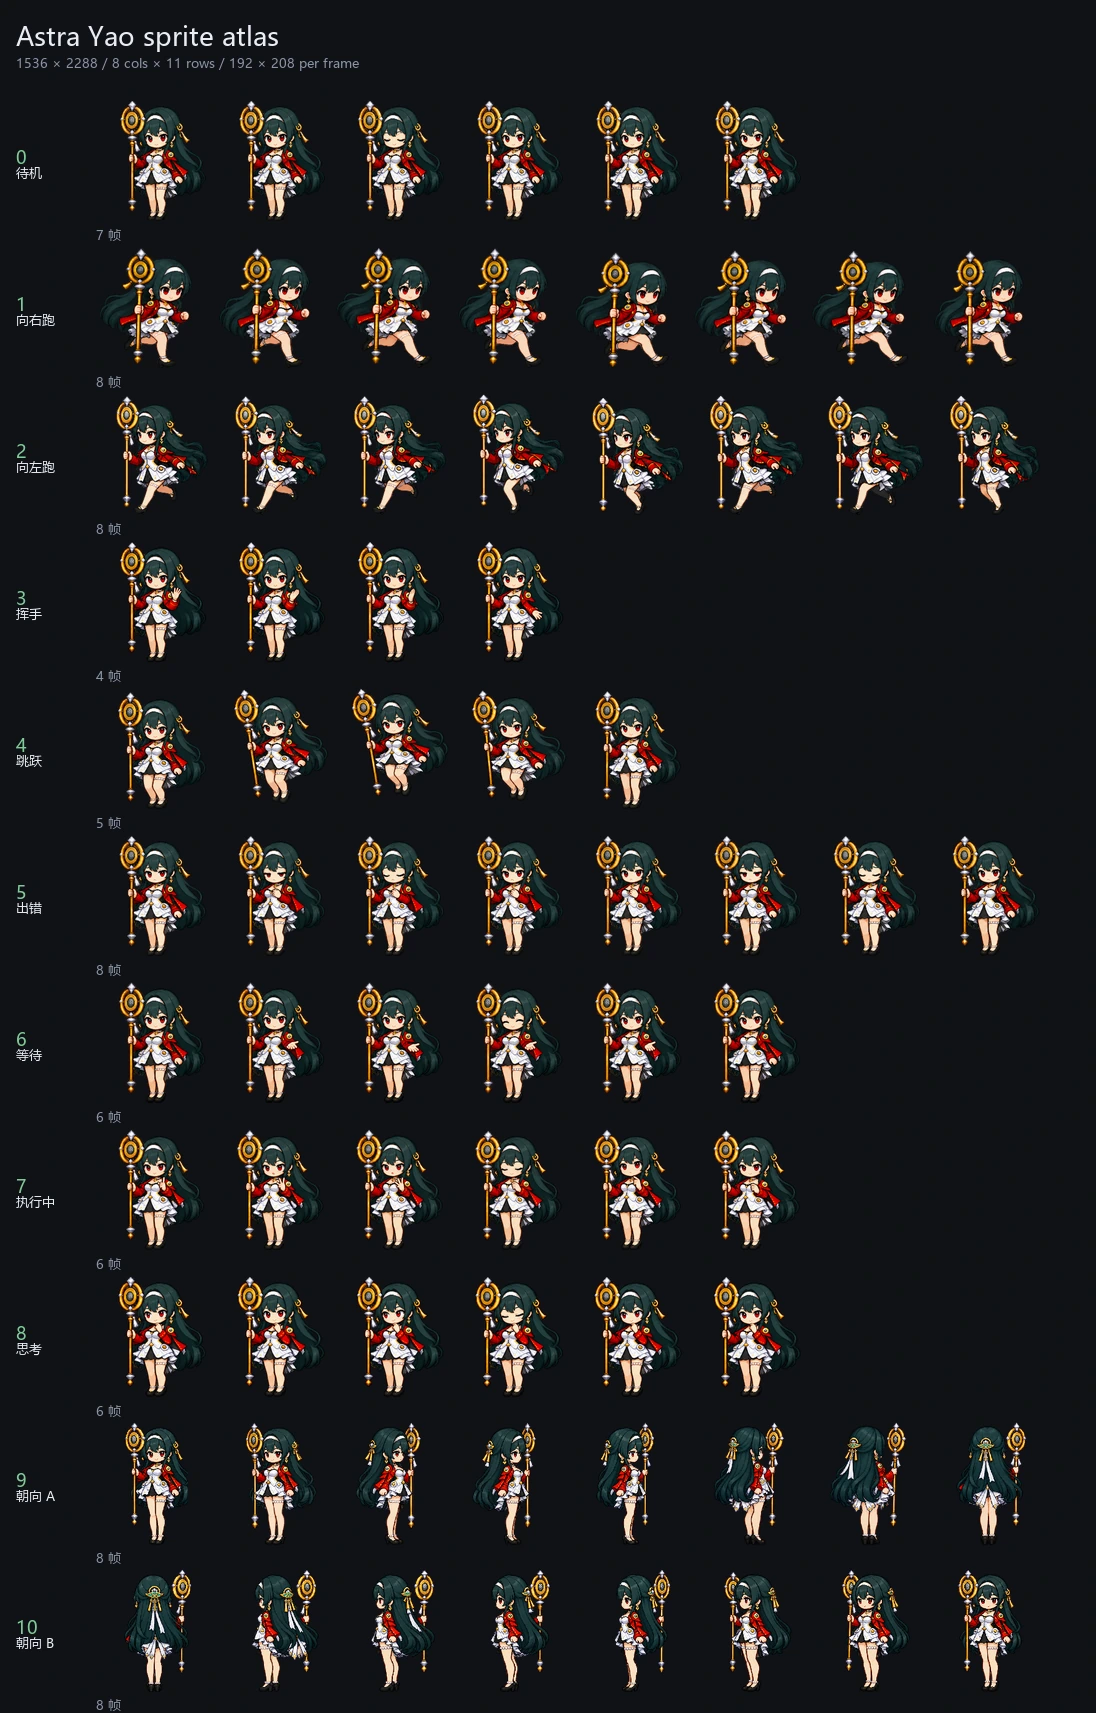
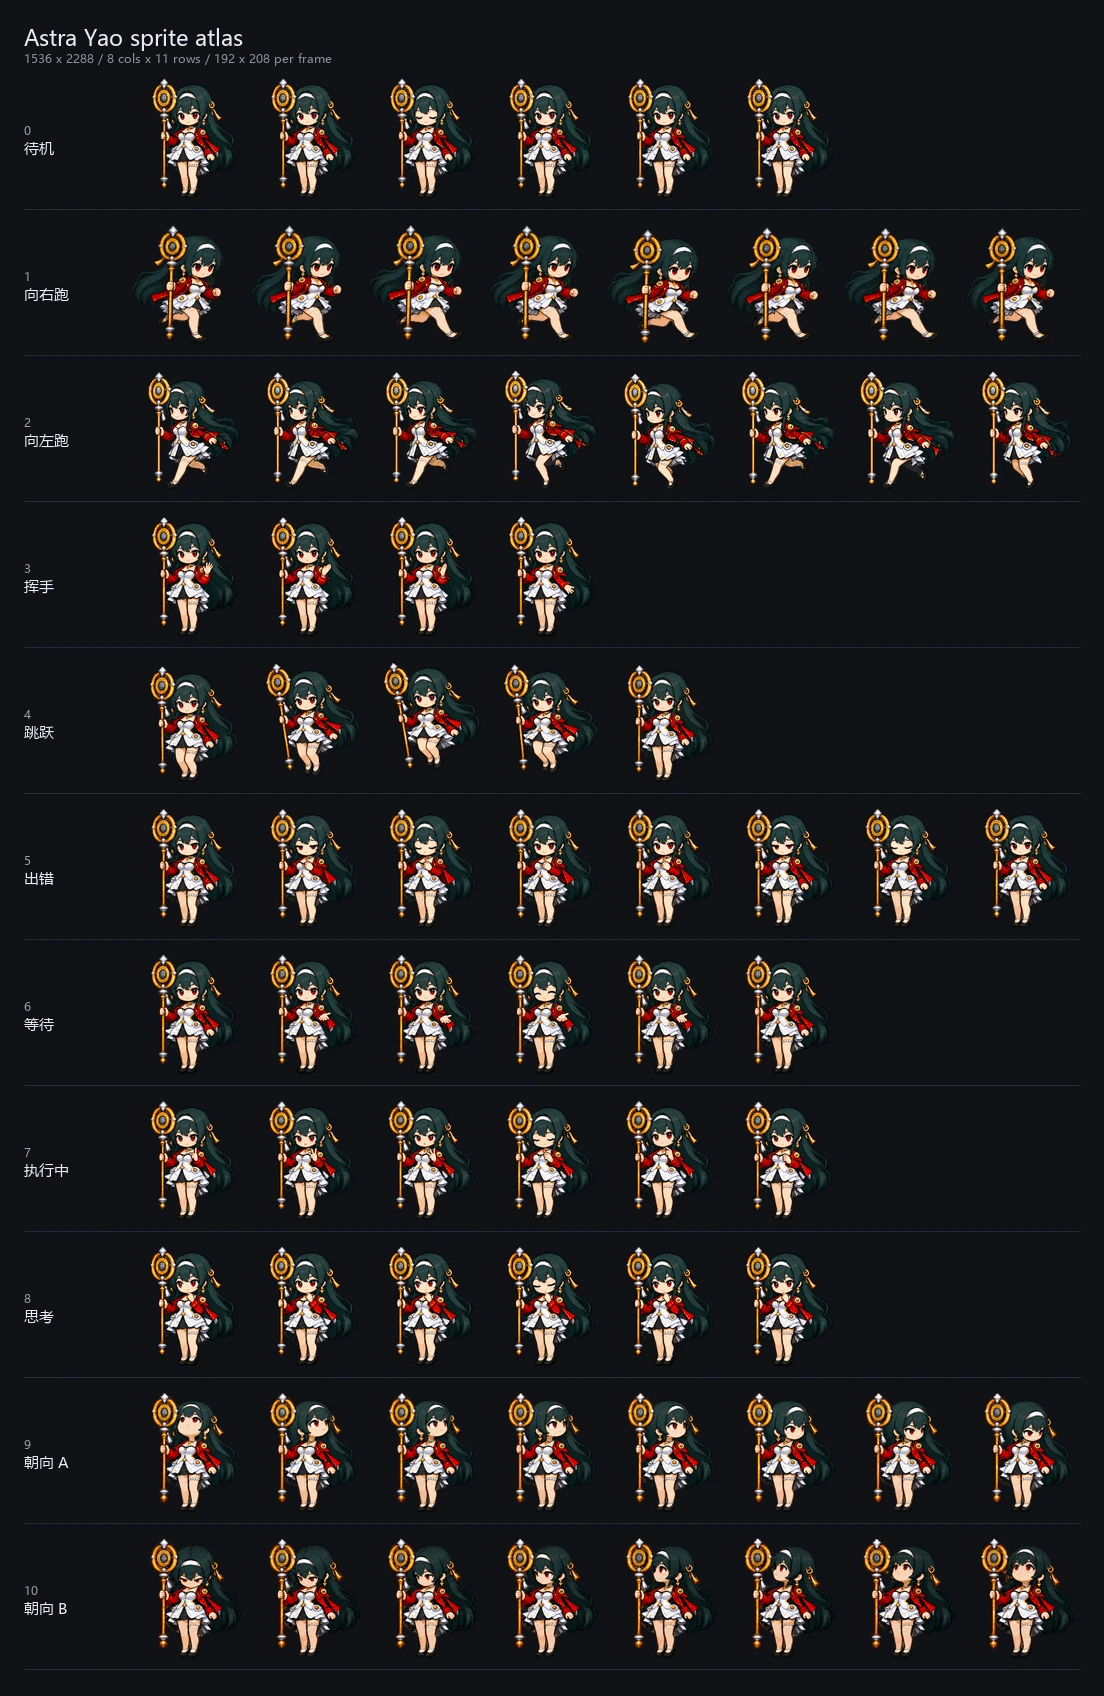
Revert "fix: restore the turning turntable rows so pointer look turns her head again"
This reverts commit 3655638168d7a4cff26162d8f5086b1f7c0acc39.

diff --git a/README.md b/README.md
@@ -224,10 +224,6 @@ Header: x-dsh-auth-token: <grant>
 | 8 | 思考（托腮、目光微动） | 6 帧 / 360 ms |
 | 9–10 | 16 个屏幕方向（0° 朝上，顺时针每 22.5° 一格） | 默认跟随光标，2.5° 迟滞 |
 
-> 注：第 9–10 行用的是早先那套转向图（侧身/背影，宽度 92–124 px），和 0–8 行的正面
-> 图（143 px）比例不同，所以光标靠近时她会“瘦一圈”。这是目前唯一一套真正转得过去的
-> 16 朝向素材；等画师按 [`docs/atlas-brief.md`](docs/atlas-brief.md) 重画后即可统一。
-
 固定约定：所有行共用同一人物设定与脚底基线，持杖手固定在画面左侧，动作里抬起的是另一只手；
 跨行切换时裙摆、腿部站姿和法杖位置不跳。
 
